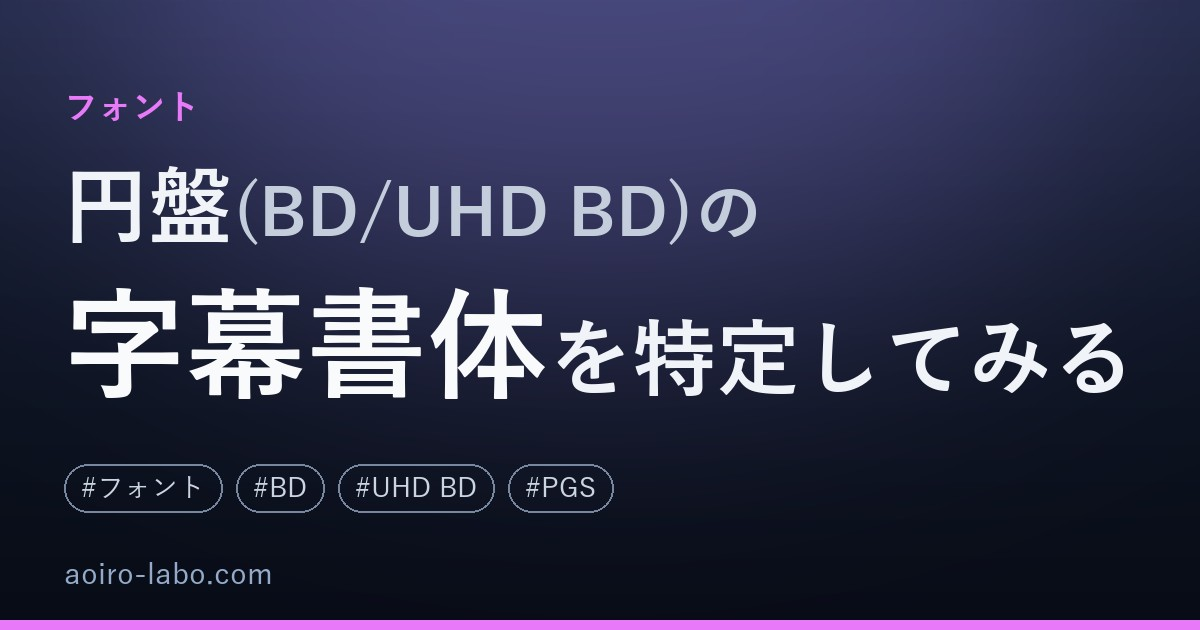
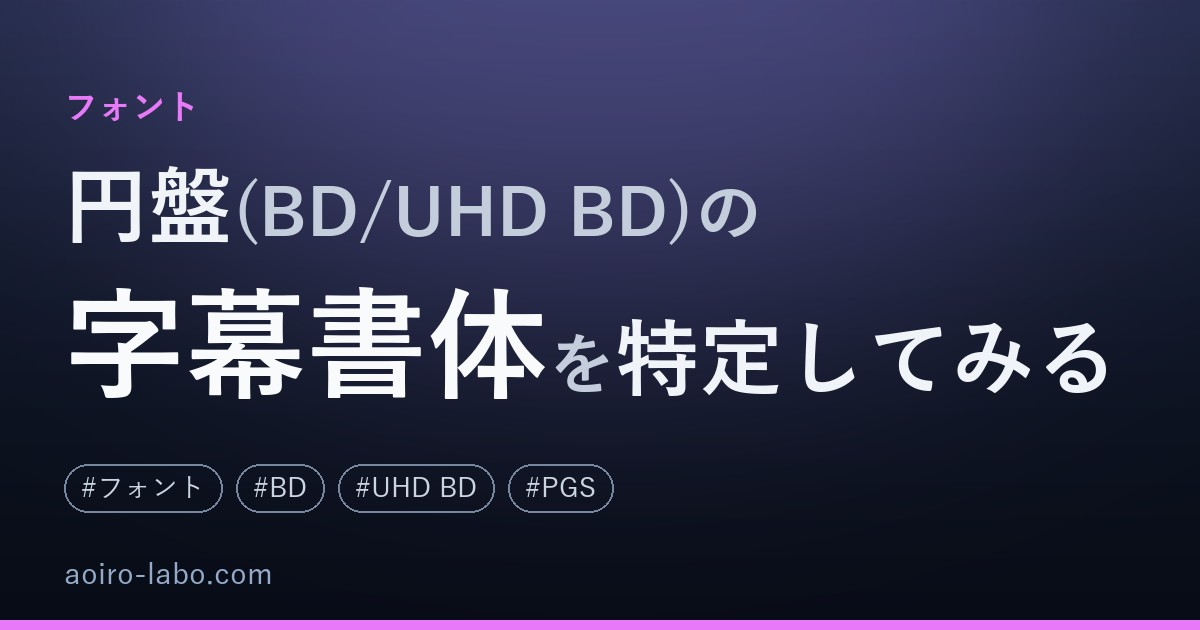
カバーの言語処理を修正：複合助詞を割らない、カッコごとハイライト、助詞を行頭に置かない

Changed region(s): [[0.4625, 0.4825, 0.9558, 0.6333]]

diff --git a/tools/generate_cover.py b/tools/generate_cover.py
@@ -41,6 +41,8 @@ def accent_for(cat):
 PARTICLES=set('はがをにへとのもや')
 CONJ={'そして','しかし','だから','でも','また','なお','すると','ただ'}
 AUX={'だった','でした','です','ます','ました','ない','なかった','でしょう','だろう','らしい','みたい','そう','たい'}
+COMPOUND={'による','により','によって','について','にたいして','として','ごとに','にかけて','にわたって'}
+NOSPLIT_END=('ごと','こと','もの','とき','ところ','ため','はず','まま','だけ','ほど','くらい','ぐらい','など','わけ','かた')
 
 def tokenize(text):
     atoms=[]; i=0; n=len(text)
@@ -90,15 +92,41 @@ def split_brackets(atoms):
         if a: out.append((a,None))
     return out
 
+def merge_compounds(atoms):
+    out=[]; i=0
+    while i<len(atoms):
+        a=atoms[i]
+        if i+1<len(atoms):
+            b=atoms[i+1]
+            cand=a+b
+            steal = (b=='に' and i+2<len(atoms) and atoms[i+2].startswith('よ'))
+            if (cand in COMPOUND or (a=='に' and b.startswith('よ')) or (a.endswith('ごと') and b=='に' and not steal) or (a=='に' and b.startswith('つい')) or (a=='と' and b.startswith('して'))):
+                out.append(cand); i+=2; continue
+        out.append(a); i+=1
+    return out
+
 def classify(atoms, emph, hero):
     # returns list of (text, cls): cls in base/sub/accent/hero ; glue=True means a line must not start with it
-    atoms = split_brackets(atoms)
+    atoms = split_brackets(merge_compounds(atoms))
     out=[]
     def emit(text, cls, glue=False):
         if text: out.append((text, cls, glue))
     for a, forced in atoms:
         if forced=='sub':
             emit(a,'sub'); continue
+        if a in COMPOUND:
+            emit(a,'sub',glue=True); continue
+        _pref = next((c for c in COMPOUND if a.startswith(c) and len(a)>len(c)), None)
+        if _pref:
+            emit(_pref,'sub',glue=True)
+            a = a[len(_pref):]
+            if a in emph:
+                emit(a,'accent'); continue
+            if len(a)>1 and a[-1] in PARTICLES and not a.endswith(NOSPLIT_END):
+                emit(a[:-1],'base'); emit(a[-1],'sub',glue=True); continue
+            emit(a,'base'); continue
+        if a and all(ch in PARTICLES for ch in a):
+            emit(a,'sub',glue=True); continue
         if a==hero:
             emit(a,'hero'); continue
         if a in emph:
@@ -111,7 +139,7 @@ def classify(atoms, emph, hero):
             continue
         if a in CONJ or a in AUX:
             emit(a,'sub',glue=True); continue
-        if len(a)>1 and a[-1] in PARTICLES and not a.endswith('から'):
+        if len(a)>1 and a[-1] in PARTICLES and not a.endswith('から') and not a.endswith(NOSPLIT_END) and not a.endswith('ごとに'):
             emit(a[:-1],'base'); emit(a[-1],'sub',glue=True); continue
         emit(a,'base')
     out=[(t,c,(g or (t and t[0] in '」）)'))) for (t,c,g) in out]
@@ -128,6 +156,8 @@ def split_emph(atoms, emph, hero):
                 if e in rest: hit=e; break
             if not hit: out.append(rest); break
             pre,_,post = rest.partition(hit)
+            if pre.endswith('「') and post.startswith('」'):
+                pre=pre[:-1]; post=post[1:]; hit='「'+hit+'」'
             if pre: out.append(pre)
             out.append(hit); rest=post
     return out
